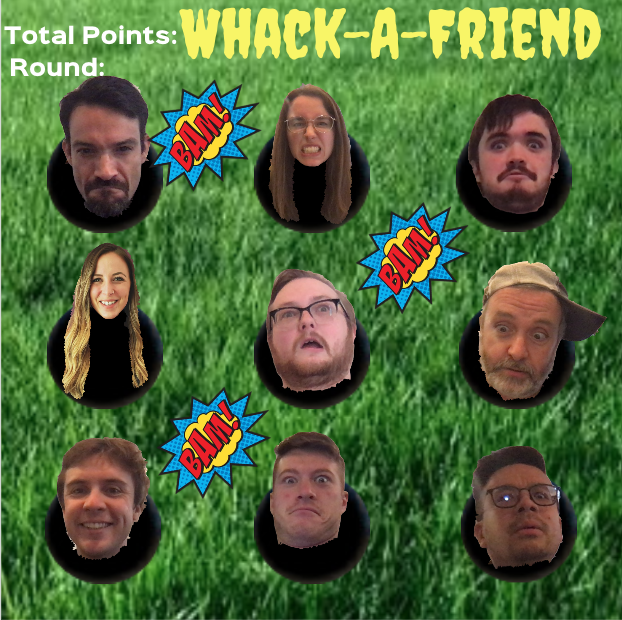
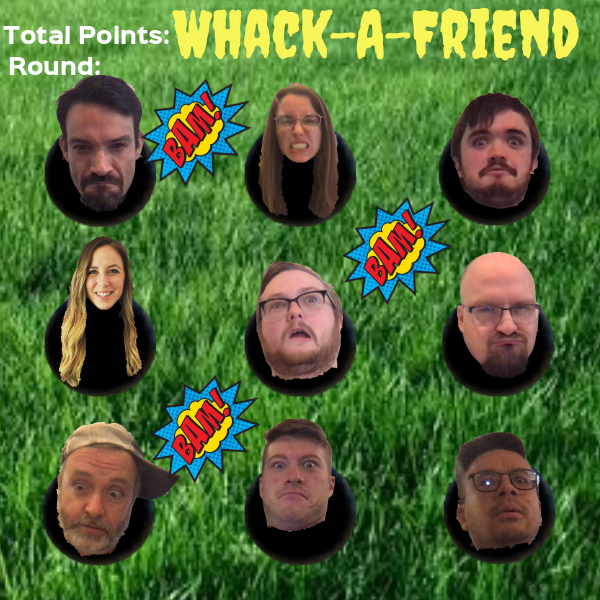
Added some HTML and CSS

diff --git a/index.html b/index.html
@@ -4,10 +4,62 @@
     <meta charset="UTF-8">
     <meta name="viewport" content="width=device-width, initial-scale=1.0">
     <meta http-equiv="X-UA-Compatible" content="ie=edge">
+    <link rel="stylesheet" href="css/style.css">
+    <link href="https://fonts.googleapis.com/css?family=Creepster&display=swap" rel="stylesheet">
+    <link href="https://fonts.googleapis.com/css?family=Sancreek&display=swap" rel="stylesheet">
+
     <title>Whack a Friend</title>
 </head>
 <body>
-    <h1>Whack A Friend</h1>
+    <h1>Whack-A-Friend</h1>
+
+    <h2>Total Score:</h2>
+
+    <h3>Round:</h3>
+
+    <section class="first-holes">
+        <div class="hole1">
+            <img src="../assets/images/blackhole.png" alt="Hole">
+        </div>
+        <div class="hole2">
+                <img src="../assets/images/blackhole.png" alt="Hole">
+        </div>
+        <div class="hole3">
+                <img src="../assets/images/blackhole.png" alt="Hole">
+     </div>
+    </section>
+        
+        <section class="second-holes">
+        <div class="hole4">
+                <img src="../assets/images/blackhole.png" alt="Hole">
+        </div>
+        <div class="hole5">
+                <img src="../assets/images/blackhole.png" alt="Hole">
+        </div>
+        <div class="hole6">
+                <img src="../assets/images/blackhole.png" alt="Hole">
+        </div>
+    </section>
+        
+        <section class="third-holes">
+        <div class="hole7">
+                <img src="../assets/images/blackhole.png" alt="Hole">
+        </div>
+        <div class="hole8">
+                <img src="../assets/images/blackhole.png" alt="Hole">
+        </div>
+        <div class="hole9">
+                <img src="../assets/images/blackhole.png" alt="Hole">
+        </div>
+        </section>
+
+
     
 </body>
 </html>
+
+
+
+
+
+

diff --git a/css/style.css b/css/style.css
@@ -1,0 +1,65 @@
+* {
+    padding: 0;
+    margin: 0;
+    box-sizing: border-box;
+}
+
+
+body {
+    background-image: url("../assets/images/grass.jpg");
+    background-repeat: repeat;
+    background-size: 100%;
+
+}
+
+h1{
+    color: yellow;
+    font-family: 'Creepster', cursive;
+    font-size: 100px;
+    text-align: center;
+
+}
+
+h2{
+    color: yellow;
+    font-family: 'Sancreek', cursive;
+    font-size: 33px;
+}
+
+h3{
+    color: yellow;
+    font-family: 'Sancreek', cursive;
+    font-size: 33px;
+}
+
+.first-holes{
+    display: flex;
+    flex-direction: row;
+    justify-content: space-evenly;
+    align-items: center;
+    height: 200px;
+}
+
+section img {
+    width: 150px;
+}
+
+.second-holes{
+    display: flex;
+    flex-direction: row;
+    justify-content: space-evenly;
+    align-items: center;
+    height: 200px;
+}
+
+.third-holes{
+    display: flex;
+    flex-direction: row;
+    justify-content: space-evenly;
+    align-items: center;
+    height: 200px;
+   
+}
+
+
+
